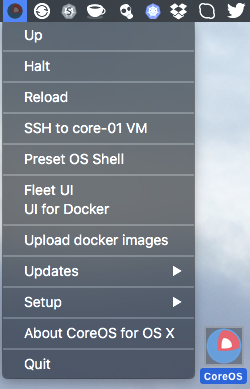
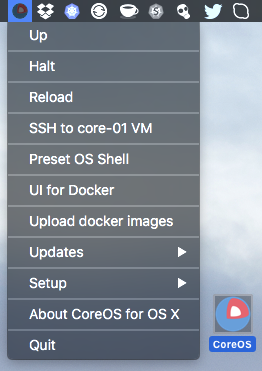
v1.2.7

diff --git a/README.md b/README.md
@@ -32,8 +32,7 @@ Open downloaded `dmg` file and drag the App e.g. to your Desktop. Start the `Cor
 - CoreOS ISO files are stored under `~/.coreos` folder
 - Docker registry runs on `192.168.64.1:5000` and images are stored under `~/coreos-osx/registry`
 - Mac user home folder is automaticly mounted to VM: `/Users/my_user`:`/Users/my_user`
-- OS X `fleetctl` and `docker` clients are installed to `~/coreos-osx/bin` and preset in `OS shell` to be used from there
-- Put your fleet units into `~/coreos-osx/my_fleet` folder and they will be automaticly started on each VM boot.
+- OS X `docker` client is installed to `~/coreos-osx/bin` and preset in `OS shell` to be used from there
 
 **The install will do the following:**
 
@@ -42,16 +41,16 @@ Open downloaded `dmg` file and drag the App e.g. to your Desktop. Start the `Cor
 - User's Mac password will be stored in `OS X Keychain`, it will be used to pass to `sudo` command which needs to be used starting the VM, this allows to avoid using `sudo` for `corectl` to start a VM. 
 - ISO images are stored under `~/.coreos/images`
 That allows to share the same images between different `corectl` based Apps and also speeds up this App VMs reinstall
-- user-data file will have fleet, etcd, and Docker Socket for the API enabled
+- user-data file will have Docker Socket for the API enabled
 - Will download latest CoreOS ISO image and run `corectl` to initialise VM with docker 2375 port pre-set for docker OS X client
-- Will download and install `fleetctl` and `docker` OS X clients to ~/coreos-osx/bin/
+- Will download and install `docker` OS X client to ~/coreos-osx/bin/
 - A small shell script `rkt` will be installed to ~/coreos-osx/bin/ which allows to call via ssh remote `rkt` binary on CoreOS VM
 - A small shell script `etcdctl` will be installed to ~/coreos-osx/bin/ which allows to call via ssh remote `etcdctl` binary on CoreOS VM
 - `docker-exec` script (docker exec -it $1 bash -c 'export TERM=xterm && bash') will be installed 
  into ~/coreos-osx/bin/ too, which allows to enter container with just a simple command:
  docker-exec container_name 
 - Also `docker2aci` binary will be installed to ~/coreos-osx/bin/, which allows to convert docker images to `rkt` aci images
-- Will install [Fleet UI](http://fleetui.com) and [UI for Docker](https://github.com/kevana/ui-for-docker) via unit files
+- Will install [UI for Docker](https://github.com/kevana/ui-for-docker) via unit files
 - Via assigned static IP (it will be shown in first boot and will survive VM's reboots) you can access any port on CoreOS VM
 - user-data file enables docker flag `--insecure-registry` to access insecure registries.
 - Persistent disk `data.img` will be created and mounted to `/data` for these mount binds:
@@ -67,7 +66,7 @@ That allows to share the same images between different `corectl` based Apps and 
 How it works
 ------------
 
-Just start `CoreOS OSX GUI ` application and you will find a small icon with the CoreOS logo with `h`in the Status Bar.
+Just start `CoreOS OSX` application and you will find a small icon with the CoreOS logo in the Status Bar.
 
 * There you can `Up`, `Halt`, `Reload` CoreOS VM
 * `SSH to core-01` will open VM shell
@@ -76,20 +75,16 @@ Just start `CoreOS OSX GUI ` application and you will find a small icon with the
 ```
 DOCKER_HOST=tcp://192.168.64.xxx:2375
 ETCDCTL_PEERS=http://192.168.64.xxx:2379
-FLEETCTL_ENDPOINT=http://192.168.64.xxx:2379
-FLEETCTL_DRIVER=etcd
 ```
 ```
-Path to `~/coreos-osx/bin` where docker and fleetctl binaries, rkt, etcdclt 
+Path to `~/coreos-osx/bin` where docker binary, rkt, etcdclt 
 and docker-exec shell scripts are stored
 ```
 
 * `OS Shell` opens OS Shell with the same enviroment preset as `Up`
-* `Updates/Check updates for OS X fleetctl and docker clients` will update fleet and docker OS X clients to the same versions as CoreOS VM runs.
+* `Updates/Check for update of docker OS X client` will update fleet and docker OS X clients to the same versions as CoreOS VM runs.
 * `Updates/Fetch latest CoreOS ISO` will download the lasted CoreOS ISO file for the currently set release channel. 
-* [Fleet UI](http://fleetui.com) dashboard will show up running `fleet` units and etc
 * [UI for Docker](https://github.com/kevana/ui-for-docker) will show up all running containers and etc
-* Put your fleet units into `~/coreos-osx/my_fleet` folder and they will be automaticly started on each VM boot.
 * You can upload your saved/exported docker images place in `~/coreos-osx/docker_images` folder via `Upload docker images`
 * Local Docker Registry v2 (Go based and compiled for  OS X) is running on `192.168.64.1:5000`, which gets started/stopped on each VM Up/Halt.
 * This App has as much automation as possible to make easier to use CoreOS on OS X, e.g. you can change CoreOS release channel and reload VM as `root` persistant disk for VM will be created and mounted to `/` so data will survive VM reboots.
